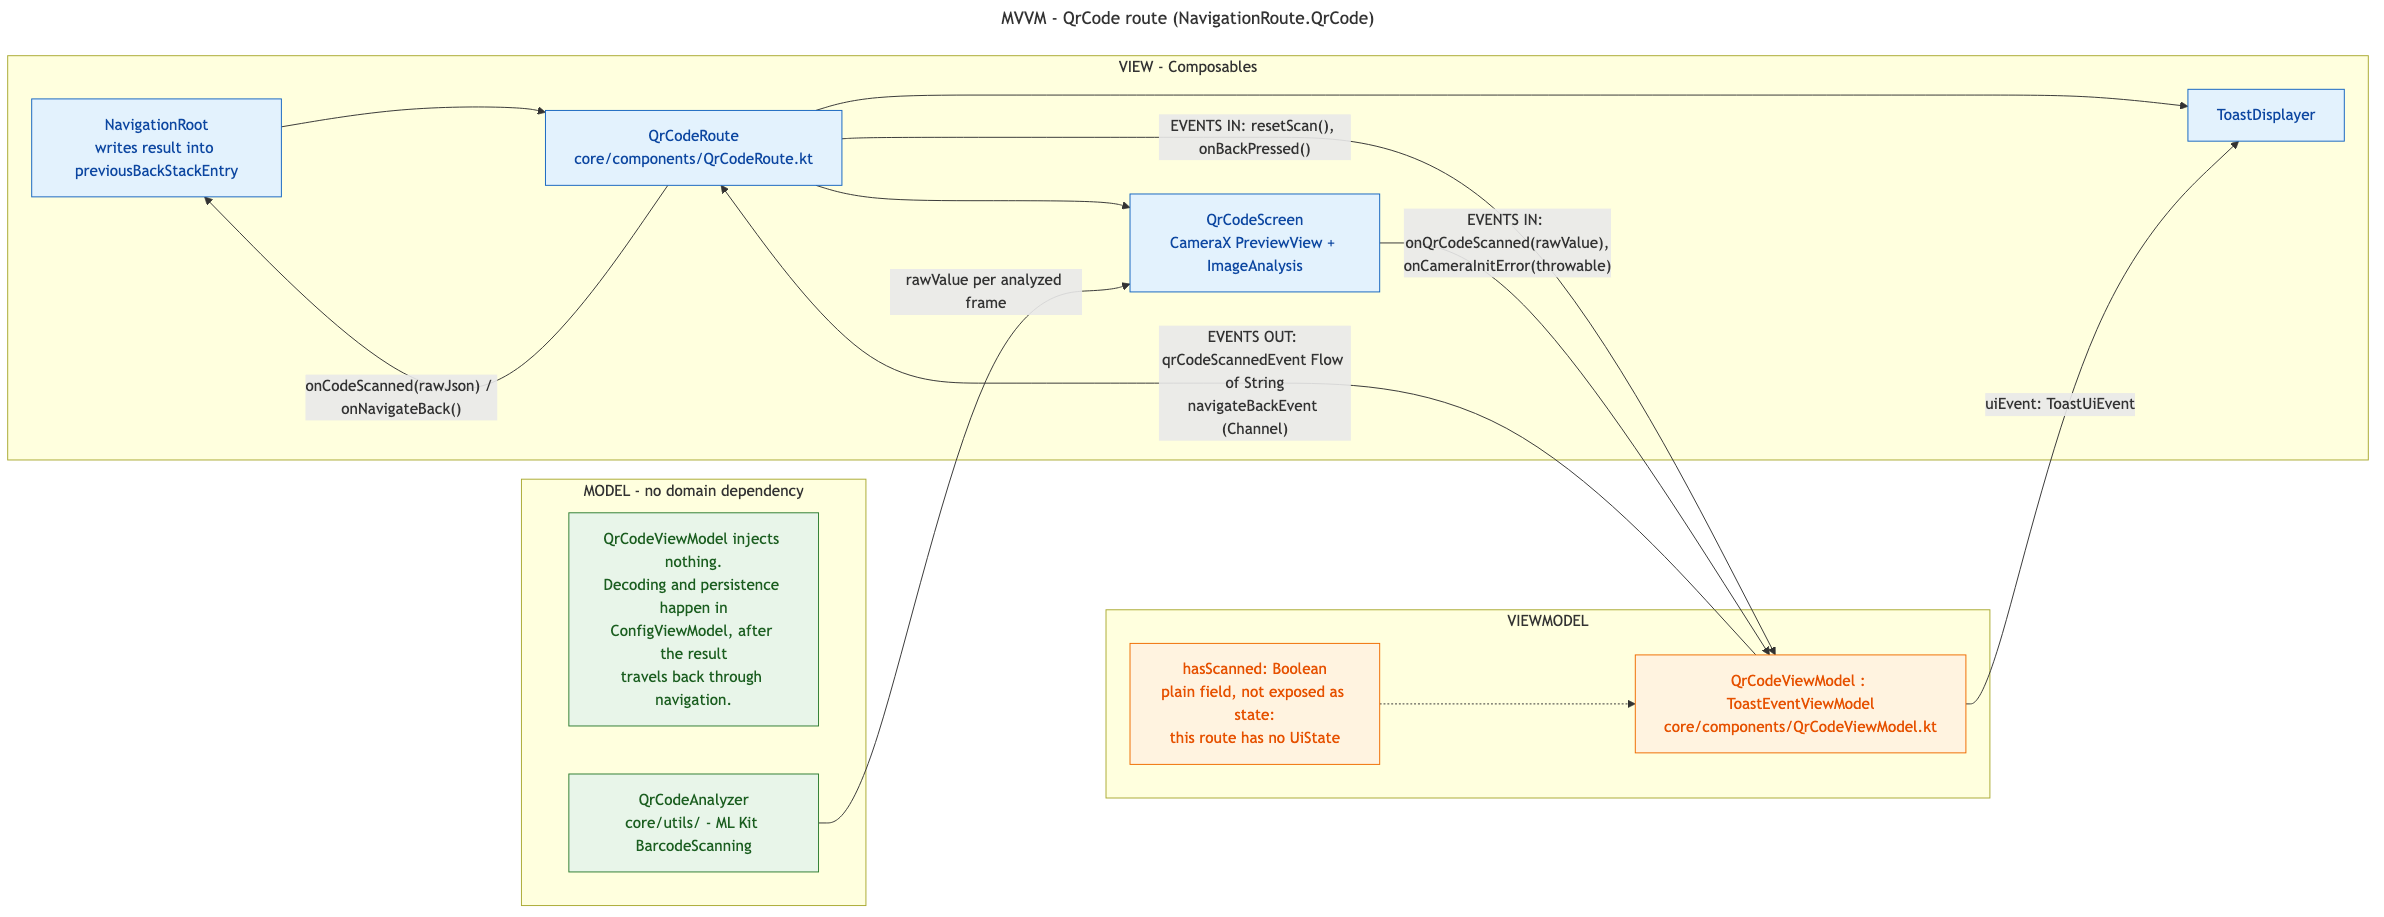
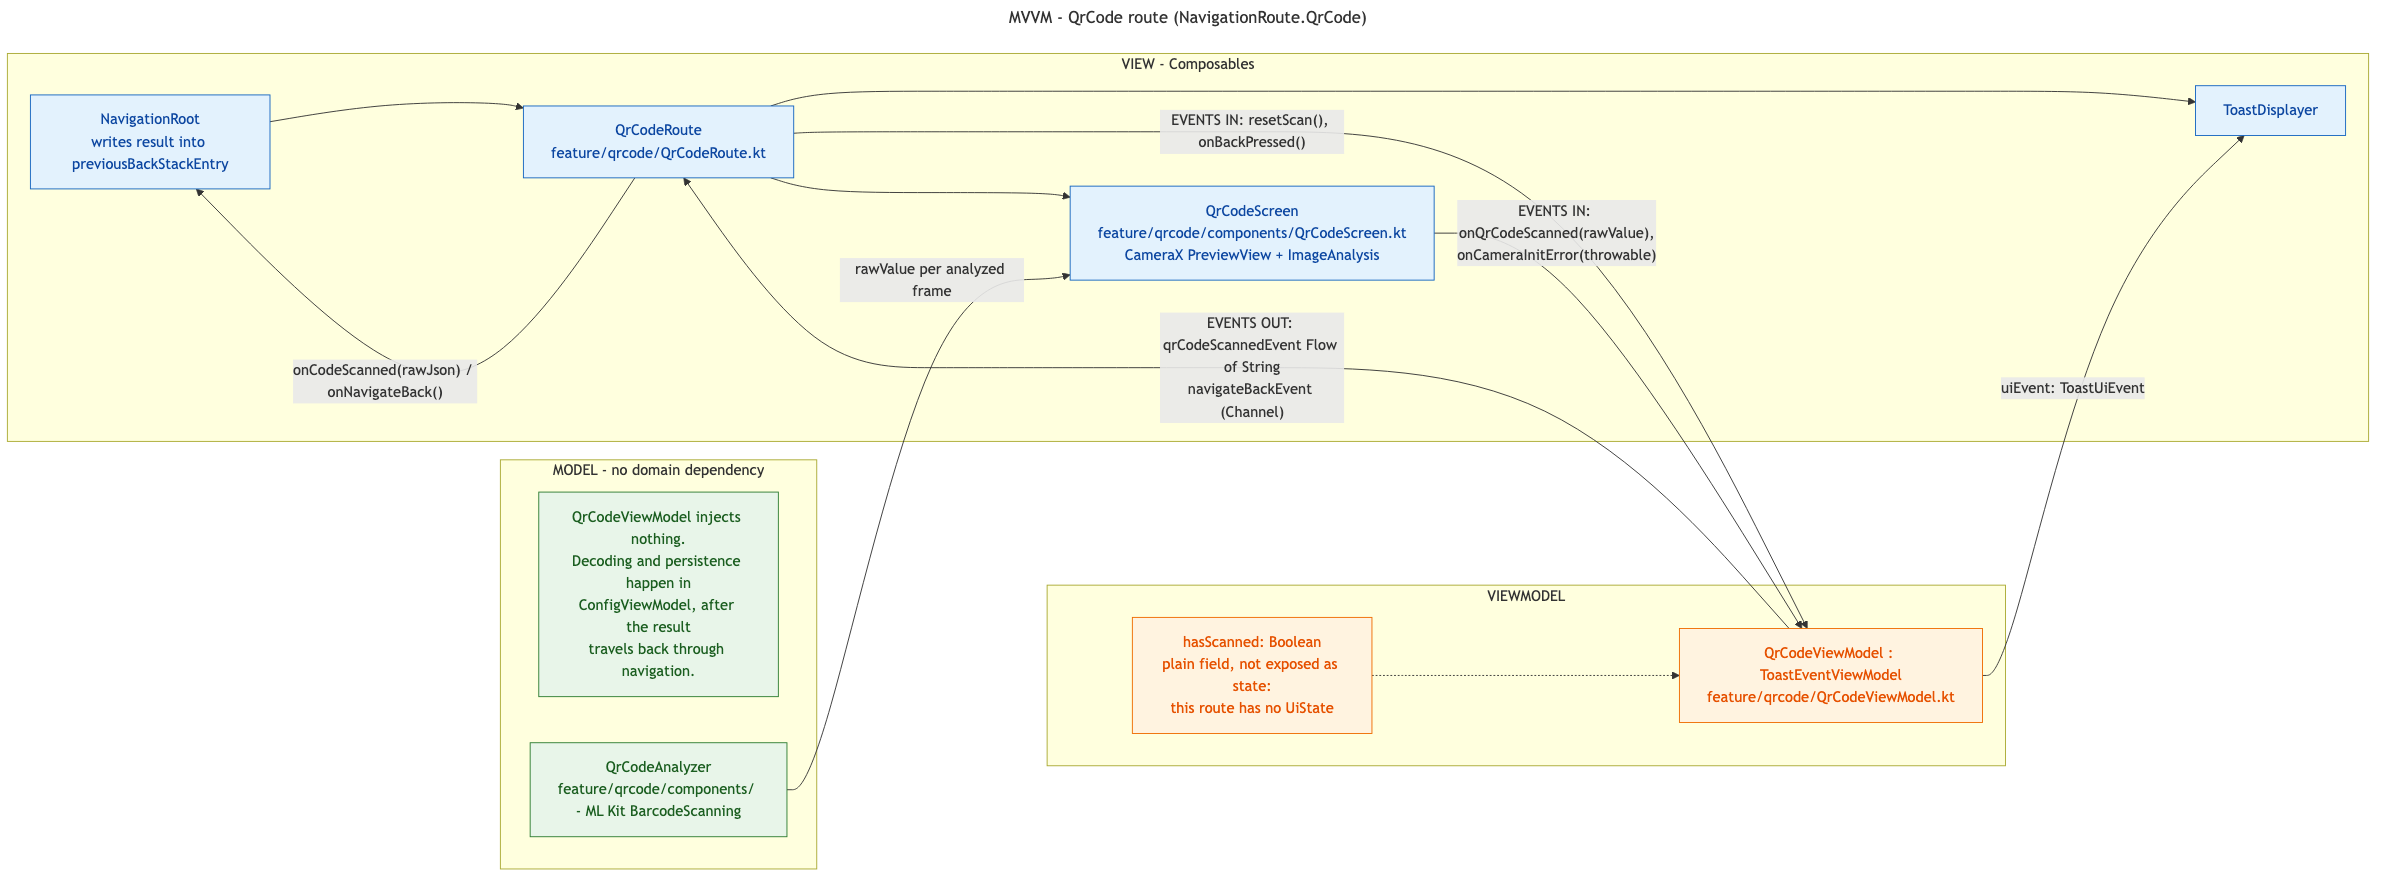
refactor: move QR code screen into feature/qrcode (§9.1.2, §9.1.3)
QrCodeRoute, QrCodeViewModel and QrCodeToastMessage move to feature/qrcode;
QrCodeScreen and QrCodeAnalyzer move to feature/qrcode/components. The scanner
is a complete MVVM feature with its own navigation destination, so it now sits
under feature/ where the Konsist "a feature does not import another feature"
rule covers it.

The analyzer stays under components/ rather than a data/ sub-package: it is an
ImageAnalysis.Analyzer handed to CameraX by the screen, and a feature.* file may
not import a name containing ".data.".

core/utils is removed; core/components now holds only ToastDisplayer,
LoadingScreen and LaunchActivityResultOnEvent.

diff --git a/app/src/main/java/com/gdisys/cameras/app/navigation/NavigationRoot.kt b/app/src/main/java/com/gdisys/cameras/app/navigation/NavigationRoot.kt
@@ -13,11 +13,11 @@ import androidx.navigation.NavGraph.Companion.findStartDestination
 import androidx.navigation.NavHostController
 import androidx.navigation.compose.NavHost
 import androidx.navigation.compose.composable
-import com.gdisys.cameras.core.components.QrCodeRoute
 import com.gdisys.cameras.feature.cameras.HomeRoute
 import com.gdisys.cameras.feature.config.ConfigRoute
 import com.gdisys.cameras.feature.config.QR_CODE_RESULT_KEY
 import com.gdisys.cameras.feature.init.InitRoute
+import com.gdisys.cameras.feature.qrcode.QrCodeRoute
 import com.gdisys.cameras.feature.streamurls.StreamURLsRoute
 import org.webrtc.EglBase
 

diff --git a/app/src/main/java/com/gdisys/cameras/feature/qrcode/QrCodeRoute.kt b/app/src/main/java/com/gdisys/cameras/feature/qrcode/QrCodeRoute.kt
@@ -1,4 +1,4 @@
-package com.gdisys.cameras.core.components
+package com.gdisys.cameras.feature.qrcode
 
 import android.util.Log
 import androidx.activity.compose.BackHandler
@@ -6,6 +6,8 @@ import androidx.compose.runtime.Composable
 import androidx.compose.runtime.LaunchedEffect
 import androidx.hilt.lifecycle.viewmodel.compose.hiltViewModel
 import com.gdisys.cameras.core.DEBUG_TAG
+import com.gdisys.cameras.core.components.ToastDisplayer
+import com.gdisys.cameras.feature.qrcode.components.QrCodeScreen
 
 @Composable
 fun QrCodeRoute(

diff --git a/app/src/main/java/com/gdisys/cameras/feature/qrcode/components/QrCodeScreen.kt b/app/src/main/java/com/gdisys/cameras/feature/qrcode/components/QrCodeScreen.kt
@@ -1,4 +1,4 @@
-package com.gdisys.cameras.core.components
+package com.gdisys.cameras.feature.qrcode.components
 
 import android.Manifest
 import android.content.pm.PackageManager
@@ -17,7 +17,6 @@ import androidx.compose.ui.platform.LocalContext
 import androidx.compose.ui.viewinterop.AndroidView
 import androidx.core.content.ContextCompat
 import androidx.lifecycle.compose.LocalLifecycleOwner
-import com.gdisys.cameras.core.utils.QrCodeAnalyzer
 import java.util.concurrent.Executors
 
 @Composable

diff --git a/app/src/test/java/com/gdisys/cameras/feature/qrcode/QrCodeViewModelTest.kt b/app/src/test/java/com/gdisys/cameras/feature/qrcode/QrCodeViewModelTest.kt
@@ -1,7 +1,8 @@
-package com.gdisys.cameras.core.components
+package com.gdisys.cameras.feature.qrcode
 
 import app.cash.turbine.test
 import com.gdisys.cameras.MainDispatcherRule
+import com.gdisys.cameras.core.components.ToastUiEvent
 import kotlinx.coroutines.test.runTest
 import org.junit.Assert.assertEquals
 import org.junit.Rule

diff --git a/app/src/main/java/com/gdisys/cameras/feature/qrcode/QrCodeToastMessage.kt b/app/src/main/java/com/gdisys/cameras/feature/qrcode/QrCodeToastMessage.kt
@@ -1,4 +1,4 @@
-package com.gdisys.cameras.core.components
+package com.gdisys.cameras.feature.qrcode
 
 import androidx.annotation.StringRes
 import com.gdisys.cameras.R

diff --git a/app/src/main/java/com/gdisys/cameras/feature/qrcode/QrCodeViewModel.kt b/app/src/main/java/com/gdisys/cameras/feature/qrcode/QrCodeViewModel.kt
@@ -1,4 +1,4 @@
-package com.gdisys.cameras.core.components
+package com.gdisys.cameras.feature.qrcode
 
 import android.util.Log
 import androidx.lifecycle.viewModelScope

diff --git a/app/src/main/java/com/gdisys/cameras/feature/qrcode/components/QrCodeAnalyzer.kt b/app/src/main/java/com/gdisys/cameras/feature/qrcode/components/QrCodeAnalyzer.kt
@@ -1,4 +1,4 @@
-package com.gdisys.cameras.core.utils
+package com.gdisys.cameras.feature.qrcode.components
 
 import android.util.Log
 import androidx.annotation.OptIn

diff --git a/docs/architecture.md b/docs/architecture.md
@@ -97,7 +97,7 @@ top-level package groups live under `com.gdisys.cameras`:
 |---|---|
 | `app/*` | Composition root and navigation: `MainActivity`, `CamerasApp`, `app.navigation` |
 | `feature/*` | One package per screen. Route + ViewModel + UiState + `components/` + optional `logic/` |
-| `core/*` | Everything shared: `storage`, `vpn`, `webrtc`, `permission`, `network`, `utils`, `components`, plus the presentation base classes at the package root |
+| `core/*` | Everything shared: `storage`, `vpn`, `webrtc`, `permission`, `network`, `components`, plus the presentation base classes at the package root |
 | `ui/*` | `ui.theme` only — `CamerasTheme`, color and typography |
 
 ### 3.1 The layering rule
@@ -156,13 +156,9 @@ inter-screen wiring, including passing the QR-code result back through
 |---|---|---|---|
 | `Loading` (start) | `InitRoute` | `feature/init/InitRoute.kt` | `InitViewModel` |
 | `Config` | `ConfigRoute` | `feature/config/ConfigRoute.kt` | `ConfigViewModel` |
-| `QrCode` | `QrCodeRoute` | `core/components/QrCodeRoute.kt` | `QrCodeViewModel` |
+| `QrCode` | `QrCodeRoute` | `feature/qrcode/QrCodeRoute.kt` | `QrCodeViewModel` |
 | `StreamURLs` | `StreamURLsRoute` | `feature/streamurls/StreamURLsRoute.kt` | `StreamURLsViewModel` |
 | `Home` | `HomeRoute` | `feature/cameras/HomeRoute.kt` | `HomeViewModel` |
-
-> One of these is worth flagging now and is detailed in
-> [§9](#9-architectural-consistency-notes): the QR-code route lives under `core/components` rather
-> than in a feature package.
 
 **Navigation shape.** The flow is gated, not linear. `InitRoute` decides between `Config` and
 `Home` based on stored credentials. `ConfigRoute` refuses to leave for `Home` until three
@@ -241,7 +237,7 @@ Points of interest:
 - `refreshCameraPermissionState()` runs on `ON_RESUME` because the user can grant camera access
   from system settings while the screen is backgrounded.
 
-### 5.3 QR code scanner (`core/components`)
+### 5.3 `feature/qrcode` — QR code scanner
 
 ![MVVM — QrCode route](images/mvvm-qrcode-route.png)
 
@@ -250,10 +246,15 @@ payload it reads.
 
 | Role | Type |
 |---|---|
-| View | `QrCodeRoute.kt`, `QrCodeScreen.kt` |
+| View | `QrCodeRoute.kt`, `components/QrCodeScreen.kt` |
 | ViewModel | `QrCodeViewModel.kt` |
-| Analyzer | `core/utils/QrCodeAnalyzer.kt` (`ImageAnalysis.Analyzer`) |
+| Analyzer | `components/QrCodeAnalyzer.kt` (`ImageAnalysis.Analyzer`) |
 | Messages | `QrCodeToastMessage` |
+
+The analyzer sits under `components/`, not under a `data/` sub-package: it is an
+`ImageAnalysis.Analyzer` handed straight to CameraX by the screen, so it is a platform/UI concern
+rather than a repository. Filing it under `data/` would also trip the Konsist rule that forbids any
+`feature.*` file from importing a name containing `.data.`.
 
 This ViewModel **injects nothing**: it is pure UI arbitration. Decoding, validation and persistence
 of the payload are `ConfigViewModel`'s job, after the string travels back through navigation. It
@@ -460,8 +461,8 @@ device into a build failure.
 - `ToastEventViewModel` — abstract base owning the toast `Channel`; every ViewModel extends it.
 - `ToastMessage` — `@StringRes` interface implemented by per-feature enums.
 - `Constants.kt` — `DEBUG_TAG`.
-- `core/components/` — `ToastDisplayer`, `LoadingScreen`, `LaunchActivityResultOnEvent`, and the
-  whole QR-code route (see [§9](#9-architectural-consistency-notes)).
+- `core/components/` — exactly three genuinely shared widgets: `ToastDisplayer`, `LoadingScreen` and
+  `LaunchActivityResultOnEvent`. Anything that is a screen of its own belongs in `feature/`.
 
 ### 6.7 `ui/theme`
 
@@ -622,19 +623,6 @@ The layering is well enforced where the Konsist test reaches. The items below ar
 against a strict Clean Architecture + MVVM reading of the tree at `6fdf1ce`. They are observations
 for an incoming developer, ordered roughly by how likely they are to cause confusion or a real
 defect — not a work plan.
-
-### 9.1 Naming and placement
-
-2. **The QR-code screen lives in `core/components`, not `feature/qrcode`.** `QrCodeRoute`,
-   `QrCodeScreen`, `QrCodeViewModel` and `QrCodeToastMessage` are a complete MVVM feature with its
-   own navigation destination, yet they sit beside genuinely shared widgets like `ToastDisplayer`.
-   A side effect is that the Konsist rule *"a feature does not import another feature"* does not
-   apply to it: `feature/config` reaches the scanner through navigation, but any feature could
-   import it directly without failing a test.
-
-3. **`core/components` mixes two concerns** — reusable primitives (`ToastDisplayer`,
-   `LoadingScreen`, `LaunchActivityResultOnEvent`) and one full screen. `core/utils/QrCodeAnalyzer`
-   is the same feature's data source, filed elsewhere again.
 
 ### 9.2 Layering
 
